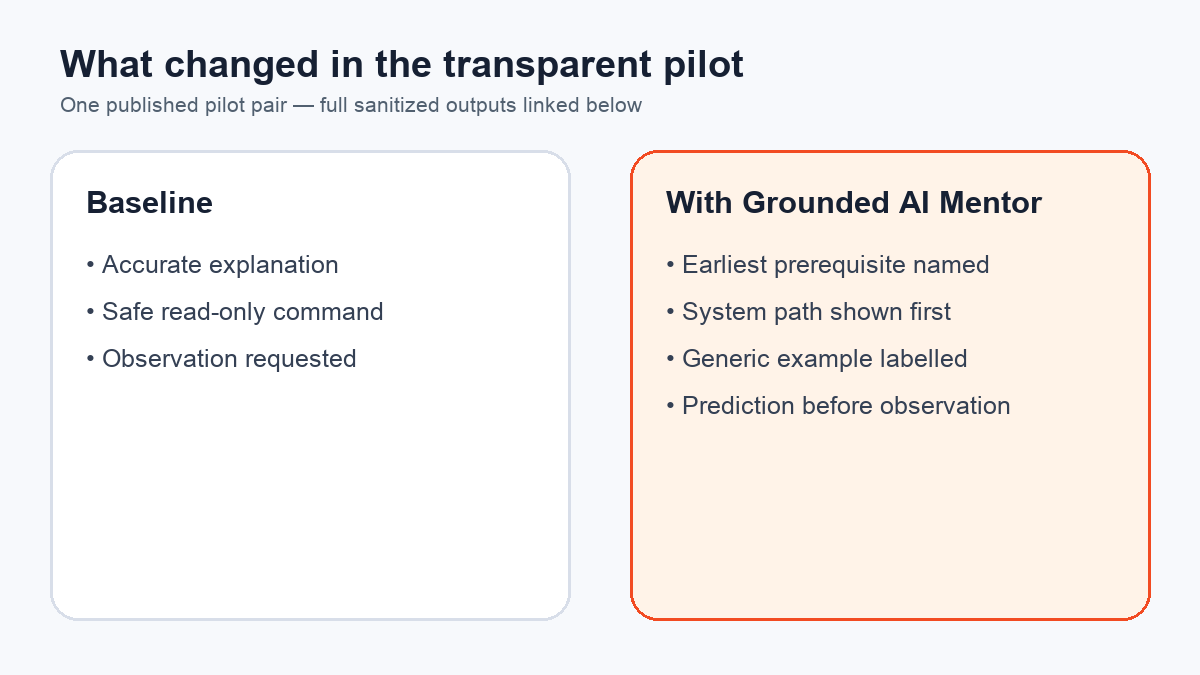
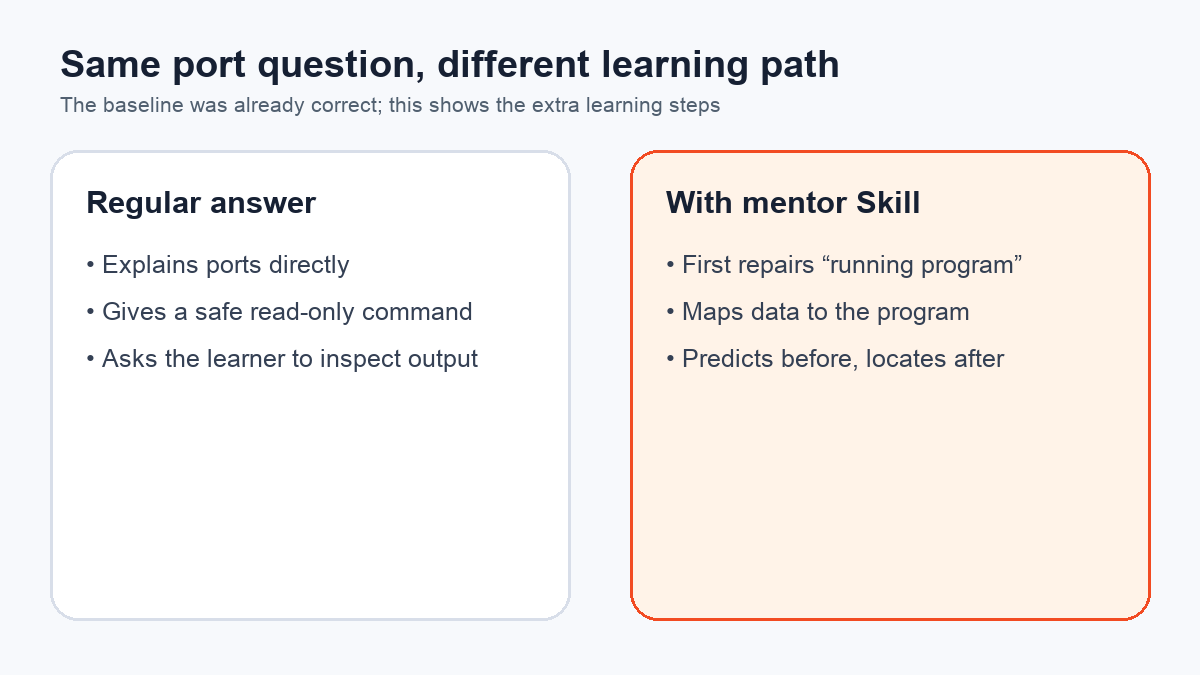
Align English README with learner-first positioning

diff --git a/scripts/build_visuals.py b/scripts/build_visuals.py
@@ -140,16 +140,19 @@ def comparison_card(
 def build_comparisons() -> None:
     comparison_card(
         ROOT / "assets" / "before-after.png",
-        title="What changed in the transparent pilot",
-        subtitle="One published pilot pair — full sanitized outputs linked below",
-        left_label="Baseline",
-        right_label="With Grounded AI Mentor",
-        left_text="• Accurate explanation\n• Safe read-only command\n• Observation requested",
+        title="Same port question, different learning path",
+        subtitle="The baseline was already correct; this shows the extra learning steps",
+        left_label="Regular answer",
+        right_label="With mentor Skill",
+        left_text=(
+            "• Explains ports directly\n"
+            "• Gives a safe read-only command\n"
+            "• Asks the learner to inspect output"
+        ),
         right_text=(
-            "• Earliest prerequisite named\n"
-            "• System path shown first\n"
-            "• Generic example labelled\n"
-            "• Prediction before observation"
+            "• First repairs “running program”\n"
+            "• Maps data to the program\n"
+            "• Predicts before, locates after"
         ),
     )
     comparison_card(

diff --git a/README.md b/README.md
@@ -3,17 +3,56 @@
 
 # Grounded AI Mentor
 
-**Learn computing and AI by tracing the real project in front of you—without hidden prerequisites or invented project details.**
+**Let AI do more than build your project—make it explain the project to you.**
 
-[![Release](https://img.shields.io/github/v/release/weike-zhang/grounded-ai-mentor)](https://github.com/weike-zhang/grounded-ai-mentor/releases)
-[![Validate](https://github.com/weike-zhang/grounded-ai-mentor/actions/workflows/validate.yml/badge.svg)](https://github.com/weike-zhang/grounded-ai-mentor/actions/workflows/validate.yml)
-[![License: MIT](https://img.shields.io/badge/License-MIT-F24B22.svg)](LICENSE)
-
-[简体中文](README.zh-CN.md) · [How it works](#how-it-works) · [Evidence](#evidence-status) · [Privacy](PRIVACY.md)
+[简体中文](README.zh-CN.md) · [Install and try](#install-and-try-it) · [How it teaches](#how-it-teaches) · [Evidence](#evidence-and-compatibility) · [Privacy](PRIVACY.md)
 
 </div>
 
-Grounded AI Mentor is an Agent Skill for people who are already building with AI but want to understand the computer science, software engineering and AI systems underneath their work. It finds the earliest missing concept, connects claims to authorized project evidence and checks whether the learner can use the idea before moving on.
+You can already use AI to build pages, connect APIs and deploy services. But when something breaks or a critical path needs changing, you may still be unsure where the problem lives or what the change could affect.
+
+Grounded AI Mentor is an Agent Skill for people building projects with AI. It reads only the code, logs and pages you allow, starts at the first concept you lost track of and connects abstract terms to the real project in front of you.
+
+When the project does not support a claim, the Skill says so. It does not present a generic answer as a fact about your codebase.
+
+## You may be stuck here
+
+- AI-generated code runs, but you do not feel safe changing it yourself.
+- When an error appears, your only move is to paste more logs back into AI.
+- You have seen terms such as API, port, database and model, but cannot connect them into one path.
+- An explanation feels clear in the moment, yet you cannot use it on the next problem.
+- You want to learn computing and AI without putting your current project aside for months of prerequisite courses.
+
+This Skill does not merely make AI answers longer. It starts where you are actually stuck, helps you understand and verify one part of the project, then decides what dependency comes next.
+
+## What it changes for you
+
+| What happens now | What Grounded AI Mentor does |
+| --- | --- |
+| One explanation introduces several unfamiliar terms | Finds the first concept you lost and repairs that layer before adding more vocabulary |
+| You want to know how a feature really works | Traces the path from the user's action through code, requests, services and data |
+| AI says “your project probably works like this” | Points to the file, log, page or explicit statement behind each project-specific claim |
+| The available material cannot confirm something | Labels it as general knowledge or inference instead of pretending it is a project fact |
+| You understood the explanation but cannot apply it | Uses one safe prediction, observation or locate-the-parts check to test your judgment |
+
+The goal is not to help you memorize more terms. It is to help you describe how a feature moves through the system, know where to look for evidence, separate confirmed facts from guesses and make a safe observation before changing the project.
+
+## See one public example
+
+The learner had already heard an explanation of a port but still did not understand it. They asked:
+
+```text
+I still do not understand what a port is. Do not switch to a fancy analogy.
+Return to the earliest missing prerequisite and give me one safe observation.
+```
+
+![The same port question compared as a regular answer and with Grounded AI Mentor](assets/before-after.png)
+
+The regular answer was already accurate and safe. With the Skill, the response first repaired the idea that a computer runs several programs and must route incoming data to the right one. It then asked for a prediction before a read-only command and a locate-the-parts check afterward.
+
+Read the [complete baseline](evals/results/pilot/baseline-misunderstanding.md), [response with the Skill](evals/results/pilot/with-skill-misunderstanding.md) and [comparison notes](evals/results/model-comparison.md). This is one exploratory pair, not a benchmark or proof of long-term learning gains.
+
+A second read-only comparison uses a real release-bundle implementation, regression tests and a documented security failure. Both responses were strong; the Skill made the system path more explicit but showed no material accuracy advantage. Read the [project-grounded comparison](evals/results/project-grounded-comparison.md). Publishing this limit is part of the evidence standard.
 
 ## Install and try it
 
@@ -24,45 +63,41 @@ npx skills add weike-zhang/grounded-ai-mentor \
   --skill grounded-ai-mentor -g
 ```
 
-Then ask your agent:
+Then give this prompt to a client that supports Agent Skills:
 
 ```text
-Use $grounded-ai-mentor to explain what happens from clicking Login
-to the database returning a result. Define every new term and cite
-the project evidence behind each project-specific claim.
+Use $grounded-ai-mentor to help me understand this project.
+
+Start when the user clicks Login and show me every place the data travels.
+When a technical term first appears, explain what it is and why it exists.
+Point to the evidence behind project-specific claims. Do not change code yet.
 ```
 
 See [docs/INSTALL.md](docs/INSTALL.md) for manual Codex installation, validation, update and uninstall paths.
 
-## What changes in a lesson
+## How it teaches
 
-![Pilot comparison showing the baseline and the response with Grounded AI Mentor](assets/before-after.png)
-
-In the published pilot, the baseline was already accurate and safe. With the Skill, the response made four behaviors more explicit:
-
-- name the earliest prerequisite before defining the requested term;
-- show the compact end-to-end system path first;
-- label generic examples instead of implying project evidence;
-- ask for a prediction before a safe observation.
-
-Read the [complete sanitized responses and limitations](evals/results/model-comparison.md). Each pair is a transparent example, not a benchmark or proof of learning gains.
-
-A second read-only comparison uses a real release-bundle implementation, regression tests and a documented security failure. Both conditions were strong; the Skill made the system path more explicit but did not show a material accuracy advantage. Read the [project-grounded comparison](evals/results/project-grounded-comparison.md). Publishing this limitation is part of the evidence standard.
-
-## How it works
+1. It distinguishes understanding, diagnosis, implementation and learning plans, so “help me understand” does not silently become a code change.
+2. It starts from material already available instead of opening with a technical-background questionnaire.
+3. It finds the first missing concept and places it in the hardware → operating system → network → application → data → AI path.
+4. It grounds project claims in files, logs, UI state or explicit user statements and says when evidence is missing.
+5. It uses one proportionate restate, prediction, observation or transfer exercise instead of treating “heard it” as “can use it.”
+6. It saves local learner state only with explicit consent.
 
 ![Grounded AI Mentor teaching flow](assets/teaching-flow.svg)
 
-1. Route the request as explanation, diagnosis, implementation or planning.
-2. Start with existing evidence instead of an onboarding questionnaire.
-3. Define the earliest missing prerequisite and place it in the system map.
-4. Ground project claims in files, logs, UI state or explicit user statements.
-5. Ask for one proportionate restate, prediction, observation or transfer check.
-6. Save local learner state only with explicit consent.
+## Decisions it will not make for you
 
-The Skill does not turn a learning request into a code change, invent a plausible project stack or silently persist personal context.
+- It will not modify a project or production system merely because you asked to learn.
+- It will not invent a plausible stack, file relationship, user or business result.
+- It will not present a generic example as a confirmed fact about your project.
+- It will not save personal learning information without consent.
 
-## Evidence status
+## Evidence and compatibility
+
+[![Release](https://img.shields.io/github/v/release/weike-zhang/grounded-ai-mentor)](https://github.com/weike-zhang/grounded-ai-mentor/releases)
+[![Validate](https://github.com/weike-zhang/grounded-ai-mentor/actions/workflows/validate.yml/badge.svg)](https://github.com/weike-zhang/grounded-ai-mentor/actions/workflows/validate.yml)
+[![License: MIT](https://img.shields.io/badge/License-MIT-F24B22.svg)](LICENSE)
 
 | Surface | Status | Evidence |
 | --- | --- | --- |
@@ -80,41 +115,28 @@ python evals/validate_fixtures.py
 
 These checks validate fixture structure and required files. They deliberately do not output a model-quality percentage. See [evals/README.md](evals/README.md) for the planned repeated evaluation design.
 
-## Privacy by architecture
+## Privacy
 
-The public repository contains fictional examples and a blank learner-profile template. A real profile may be created only with explicit consent at:
+The public repository contains no private user project or real learner profile. Examples are fictional, and evaluations cite only publicly available repository files. A real profile may be created only with explicit consent at:
 
 ```text
 .grounded-ai-mentor/learner-profile.md
 ```
 
-That path is ignored by default. Learners can view, correct, export or delete their state. Scan a profile before persistence or a sharing review:
+That path is ignored by default. Learners can view, correct, export or delete their state. Scan a profile after saving it or before reviewing whether it is suitable to share:
 
 ```bash
 python skills/grounded-ai-mentor/scripts/validate_state.py \
   .grounded-ai-mentor/learner-profile.md
 ```
 
-A clean scan reports structure and configured sensitive-data patterns. It does not grant permission to persist or share the profile; both actions still require the learner's explicit authorization.
+A clean scan reports only that the structure passed and no configured sensitive-data pattern was detected. It does not grant permission to persist or share the profile; both actions still require explicit authorization.
 
 Read [PRIVACY.md](PRIVACY.md) before enabling persistence.
 
-## Repository map
+## Contributing and license
 
-```text
-skills/grounded-ai-mentor/  installable Skill
-examples/                   fictional teaching examples
-evals/                      fixtures, rubric and transparent pilot output
-assets/                     mascot, social preview and diagrams
-docs/                       installation instructions
-release/                    public release notes
-```
-
-## Contributing
-
-The most useful contribution is a reproducible teaching failure: an undefined term, invented project evidence, premature action or a case where the learner still cannot transfer the idea. See [CONTRIBUTING.md](CONTRIBUTING.md).
-
-## License and visual assets
+The most useful contribution is a reproducible teaching failure: an undefined term, invented project evidence, premature action or a case where the learner still cannot make the next judgment. See [CONTRIBUTING.md](CONTRIBUTING.md).
 
 Code and documentation use the [MIT License](LICENSE). The project author has confirmed the right to publish and redistribute the mascot as part of Grounded AI Mentor. Mascot-derived visuals are not separately licensed under MIT for reuse outside this project; see [assets/ASSET-NOTICE.md](assets/ASSET-NOTICE.md).
 

diff --git a/release/v0.1.2.md b/release/v0.1.2.md
@@ -8,8 +8,8 @@ This release makes the learner-facing value clearer, makes learner-state validat
 - consent, detected sensitive data and persistence validity are reported separately;
 - state-validator behavior is covered by regression tests and CI;
 - plugin metadata now matches the release version;
-- the Chinese README now starts from recognizable learner problems and observable outcomes before installation and protocol detail;
-- the Chinese pilot visual compares the same port-learning task in user-readable language;
+- the English and Chinese READMEs now start from recognizable learner problems and observable outcomes before installation and protocol detail;
+- both pilot visuals compare the same port-learning task in user-readable language;
 - the evaluation surface includes a project-grounded bundle-safety explanation with exact file evidence and an understanding check.
 
 ## Verification

diff --git a/CHANGELOG.md b/CHANGELOG.md
@@ -2,8 +2,8 @@
 
 ## 0.1.2 — 2026-08-13
 
-- Rewrote the Chinese README around recognizable learner problems, observable outcomes and a real teaching example before installation and protocol details.
-- Reframed the Chinese pilot comparison visual around the shared port-learning task instead of internal behavior labels.
+- Rewrote both READMEs around recognizable learner problems, observable outcomes and a real teaching example before installation and protocol details.
+- Reframed both pilot comparison visuals around the shared port-learning task instead of internal behavior labels.
 - Separate sensitive-data scan results from consent and persistence authorization.
 - Remove the misleading `safe_to_share` result and add regression tests for consent and redaction semantics.
 - Run state-validator tests in CI and align the plugin manifest with the public release version.
